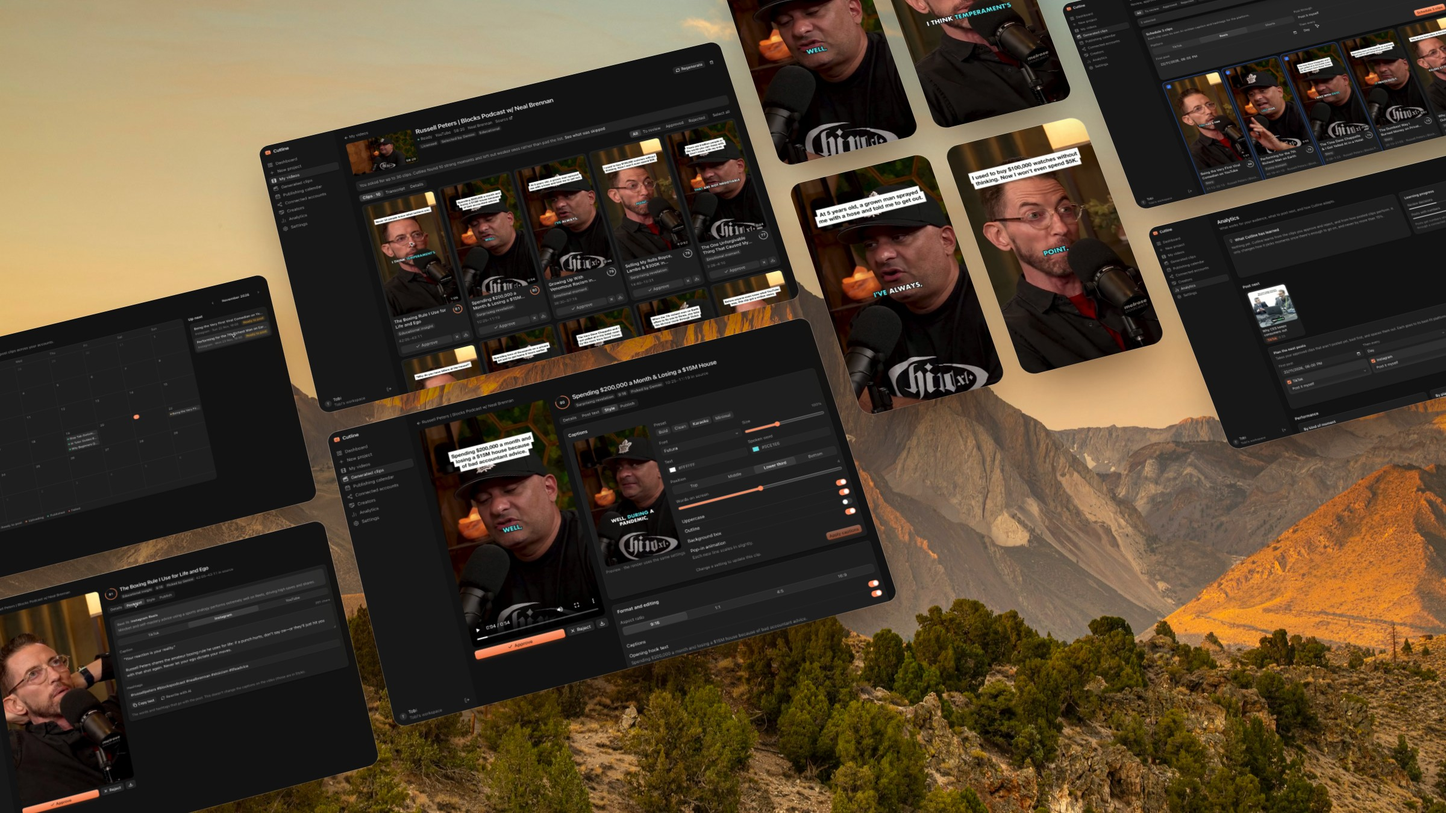
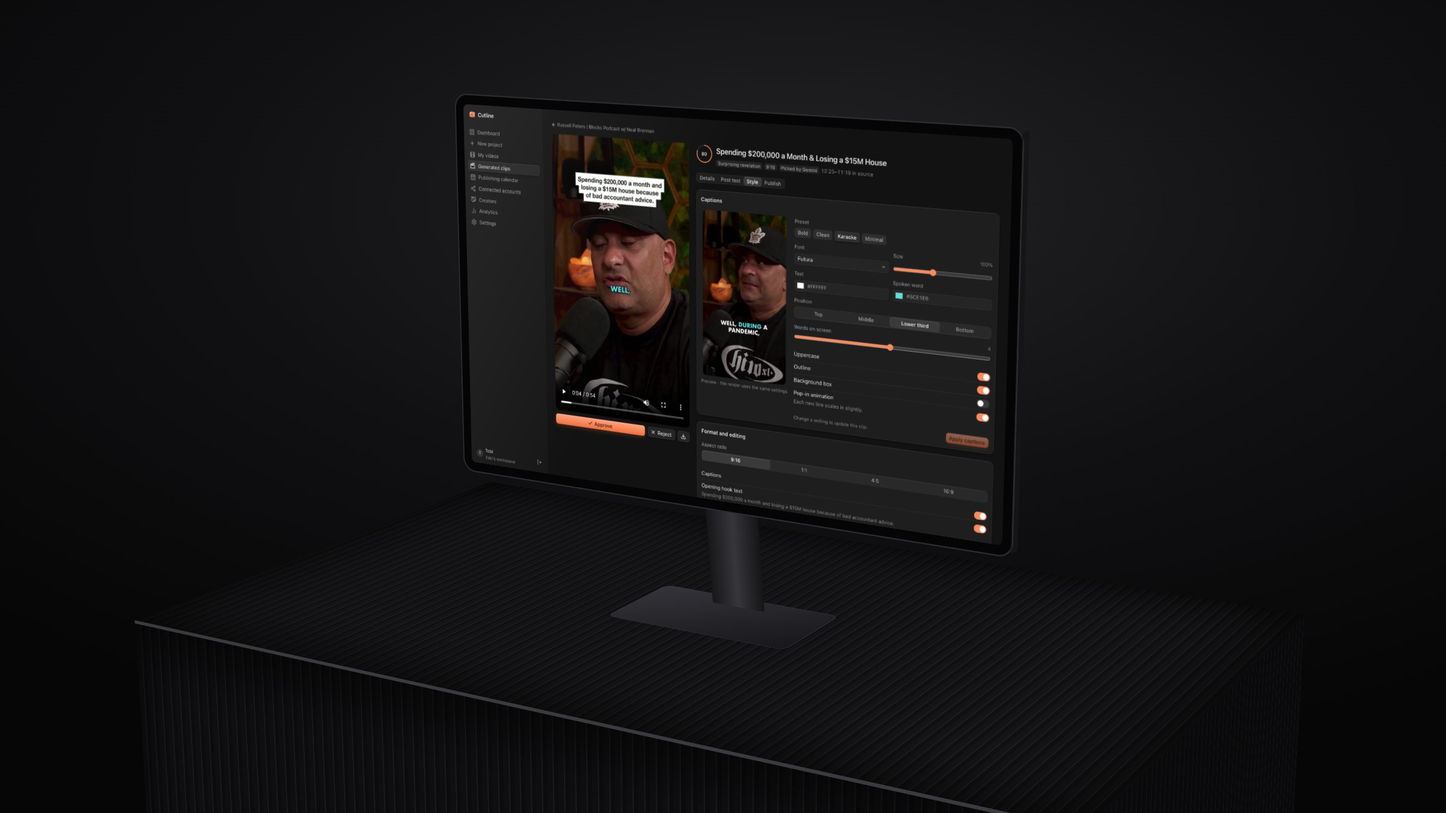
Cutline thumbnail: studio monitor mockup

diff --git a/work/cutline/index.html b/work/cutline/index.html
@@ -13,11 +13,11 @@
 <meta property="og:url" content="https://tobibello.pages.dev/work/cutline/">
 <meta property="og:title" content="Cutline: AI That Finds the Clips Worth Posting | Case study by Tobi John Bello">
 <meta property="og:description" content="Cutline: AI That Finds the Clips Worth Posting: a product design and design engineering case study by Tobi John Bello. Cutline is an AI video tool I designed and built. It turns long podcasts, interviews and talks into short vertical clips, picks only the moments worth posting, and publishes them to TikTok, Instagram and YouTube.">
-<meta property="og:image" content="https://tobibello.pages.dev/assets/images/cutline/cutline-thumb.jpg">
+<meta property="og:image" content="https://tobibello.pages.dev/assets/images/cutline/cutline-thumb.jpg?v=4">
 <meta name="twitter:card" content="summary_large_image">
 <meta name="twitter:title" content="Cutline: AI That Finds the Clips Worth Posting | Case study by Tobi John Bello">
 <meta name="twitter:description" content="Cutline: AI That Finds the Clips Worth Posting: a product design and design engineering case study by Tobi John Bello. Cutline is an AI video tool I designed and built. It turns long podcasts, interviews and talks into short vertical clips, picks only the moments worth posting, and publishes them to TikTok, Instagram and YouTube.">
-<meta name="twitter:image" content="https://tobibello.pages.dev/assets/images/cutline/cutline-thumb.jpg">
+<meta name="twitter:image" content="https://tobibello.pages.dev/assets/images/cutline/cutline-thumb.jpg?v=4">
 <script type="application/ld+json">[{"@context": "https://schema.org", "@type": "Person", "name": "Tobi John Bello", "alternateName": ["Tobi Bello", "Tobi J. Bello"], "jobTitle": "Design Engineer & Product Designer", "url": "https://tobibello.pages.dev/", "image": "https://tobibello.pages.dev/assets/images/3a0TsaIyMQbZR7j9urEglnDvk4.png", "email": "mailto:tobijohnbello@gmail.com", "sameAs": ["https://www.linkedin.com/in/tobi-john-bello-57268a89/", "https://github.com/squarepegng", "https://tobibello.framer.website/"], "knowsAbout": ["Product design", "UX design", "UI design", "AI product design", "Agentic AI UX", "Design systems", "No-code builders", "SaaS", "Design engineering", "Prototyping"], "alumniOf": {"@type": "CollegeOrUniversity", "name": "Federal University of Technology, Akure"}}, {"@context": "https://schema.org", "@type": "WebSite", "name": "Tobi John Bello — Portfolio", "alternateName": "Tobi Bello", "url": "https://tobibello.pages.dev/"}, {"@context": "https://schema.org", "@type": "CreativeWork", "name": "Augmented Reality Try-On", "url": "https://tobibello.pages.dev/work/cutline/", "author": {"@type": "Person", "name": "Tobi John Bello", "url": "https://tobibello.pages.dev/"}, "image": "https://tobibello.pages.dev/assets/images/9REVzFUQ6uCuavGl8Y809GJALQE.png"}]</script>
 <link rel="icon" href="../../assets/images/3a0TsaIyMQbZR7j9urEglnDvk4.png">
 <link rel="preload" href="../../assets/fonts/InterDisplay-400.woff2" as="font" type="font/woff2" crossorigin>

diff --git a/index.html b/index.html
@@ -89,7 +89,7 @@
         </div>
       </a>
       <a class="project reveal scale" href="work/cutline/">
-        <div class="project-img tovi"><img src="assets/images/cutline/cutline-thumb.jpg?v=3" alt="" loading="lazy"></div>
+        <div class="project-img tovi"><img src="assets/images/cutline/cutline-thumb.jpg?v=4" alt="" loading="lazy"></div>
         <div class="project-body">
           <div class="tags"><span class="tag">AI Product</span><span class="tag">Design Engineering</span></div>
           <div class="project-text"><h3>Cutline: AI That Finds the Clips Worth Posting</h3><p>Designing and building an AI video tool that turns long podcasts into short clips and publishes them</p></div>
